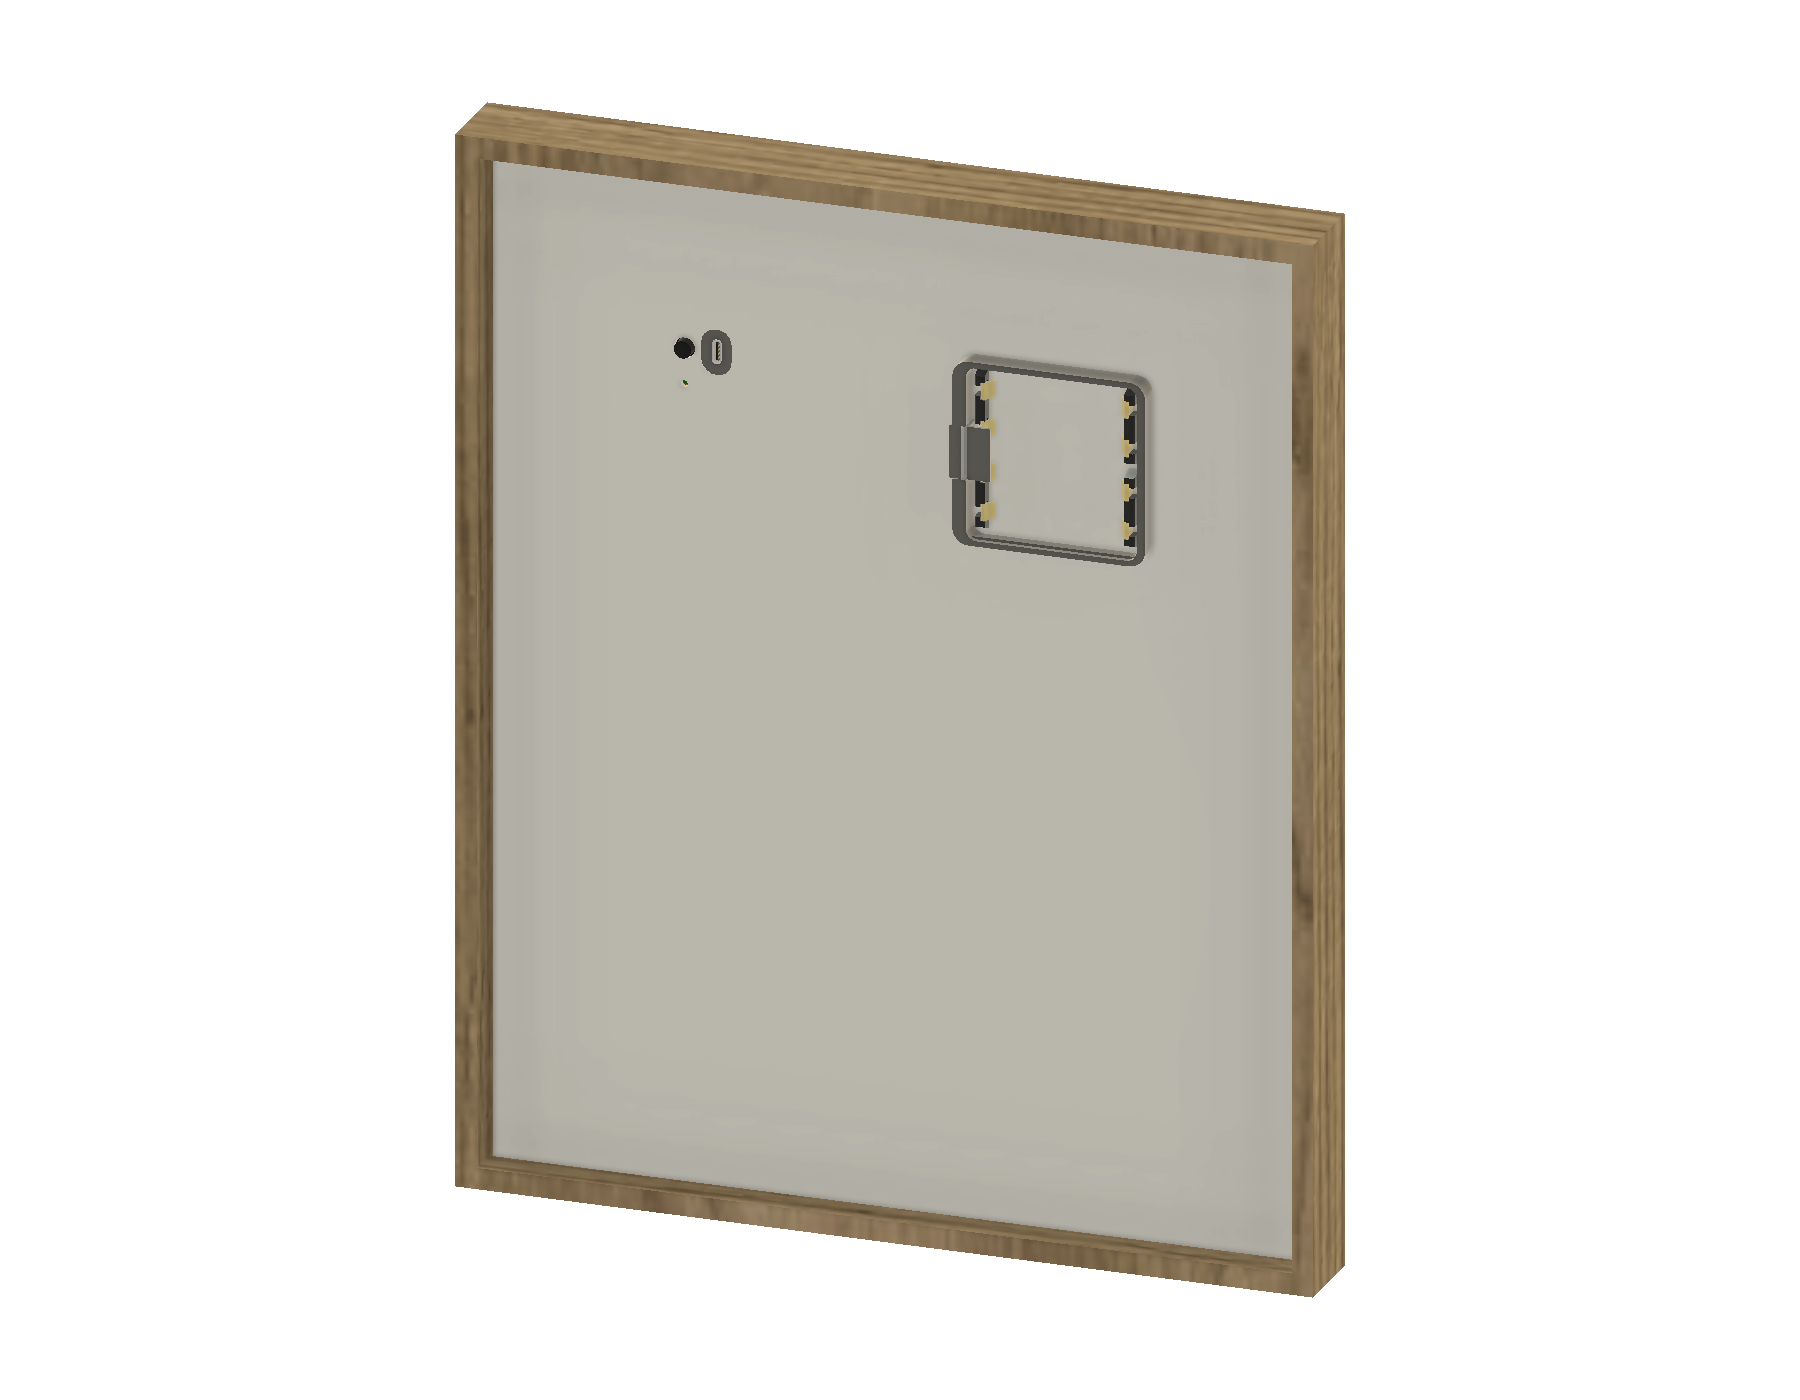
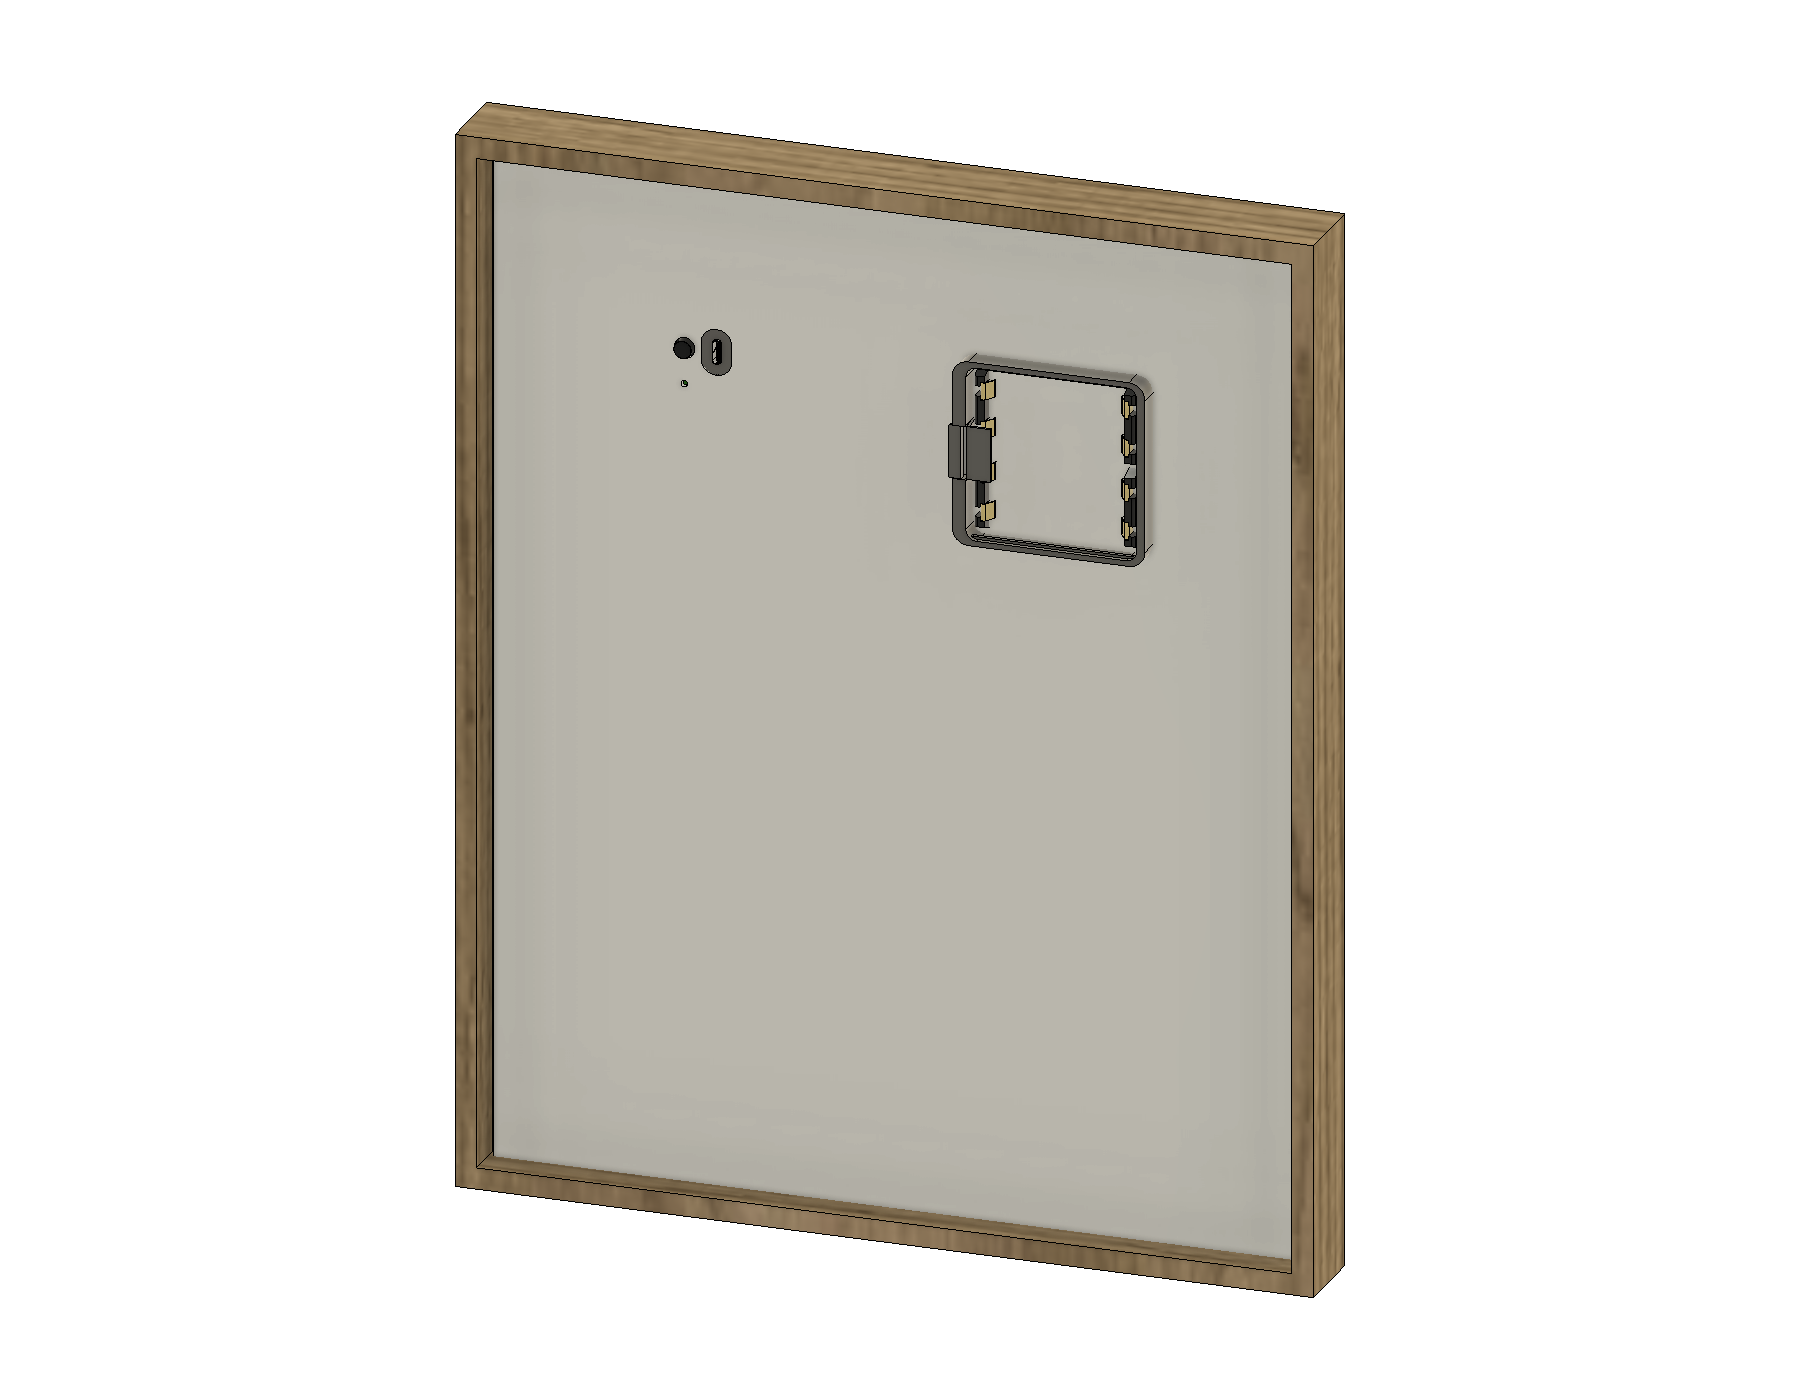
docs(hardware): retain visible outlines in Fusion images

Changed region(s): [[0.5289, 0.2457, 0.5911, 0.3993], [0.6222, 0.2764, 0.6533, 0.3993], [0.3733, 0.2457, 0.4044, 0.2764]]

diff --git a/paperl/README.md b/paperl/README.md
@@ -8,7 +8,7 @@ Hardware files for the 13.3-inch OpenPaper L e-Paper photo frame. This directory
 | --- | --- |
 | [![OpenPaper L front](../images/paperl/picture-frame.png)](../images/paperl/picture-frame.png) | [![OpenPaper L back](../images/paperl/picture-frame-back.png)](../images/paperl/picture-frame-back.png) |
 
-The frame, inner-assembly and 3D-PCB images are direct **1800 × 1400 px Fusion exports**, using shaded surfaces with sketches, construction points, axes, planes, joint origins and joint markers hidden. Click an image to open the full resolution.
+The frame, inner-assembly and 3D-PCB images are direct **1800 × 1400 px Fusion exports**, using shaded surfaces with visible edge outlines. Sketches, construction points, axes, planes, joint origins and joint markers are hidden. Click an image to open the full resolution.
 
 - [paper-l-picture-frame.f3z](./paper-l-picture-frame.f3z): complete **OpenPaper L Bilderrahmen** assembly, including the wooden frame, glass, passe-partout, back panel, internal carrier, PCB and display references.
 
